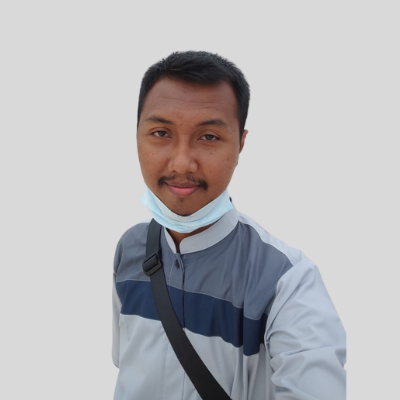
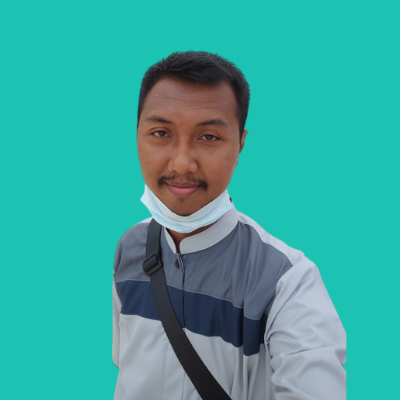
fix(style): images profile

diff --git a/src/templates/index.html b/src/templates/index.html
@@ -137,18 +137,18 @@
         <div class="max-w-screen-2xl flex flex-wrap md:flex-nowrap items-center justify-center mx-auto gap-6 md:gap-12 xl:gap-30 2xl:gap-64 px-6">
             <div data-aos="fade-up">
                 <h4 class="uppercase text-main-500 text-sm xl:text-lg font-medium tracking-widest">Tentang Saya</h4>
-                <h1 class="text-2xl md:text-3xl lg:text-4xl xl:text-5xl font-semibold capitalize leading-tight mb-6 xl:mb-12">
+                <h1 class="text-2xl md:text-3xl lg:text-4xl xl:text-5xl font-semibold capitalize leading-tight mb-6 xl:mb-12" tabindex="0">
                     Hai, Saya Ari Budiman<br>
                     Senang berjumpa dengan Anda
                 </h1>
-                <p class="leading-loose text-base xl:text-xl text-primary-desc dark:text-secondary-desc mb-3 xl:mb-6" id="profile-pesan"></p>
+                <p class="leading-loose text-base xl:text-xl text-primary-desc dark:text-secondary-desc mb-3 xl:mb-6" id="profile-pesan" tabindex="0"></p>
                 <h3 class="text-primary-desc dark:text-secondary-desc text-base xl:text-lg mb-3 xl:mb-6">
                     Founder: <span class="text-main-500">Ari Budiman</span>
                 </h3>
                 <h6 class="dancing-script text-2xl xl:text-4xl text-main-gray">AriBudiman</h6>
             </div>
             <div class="w-4/5 rounded-full img-hover-zoom overflow-hidden cursor-pointer" data-aos="zoom-in">
-                <img id="profile" class="w-full" alt="Ari Budiman">
+                <img src="images/profile.png" class="w-full" alt="Ari Budiman">
             </div>
         </div>
     </section>

diff --git a/src/styles/app.css b/src/styles/app.css
@@ -64,11 +64,7 @@ html::-webkit-scrollbar {
 }
 
 /* The Transformation */
-.img-hover-zoom:hover img {
-    transform: scale(1.1);
-}
-
-.img-project-zoom:hover {
+.img-hover-zoom:hover img, .img-project-zoom:hover {
     transform: scale(1.2);
 }
 
